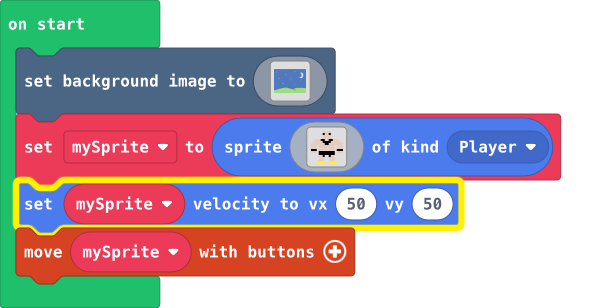
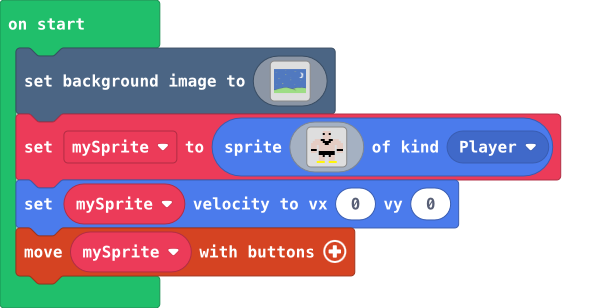
Update main.blocks, main.ts

Changed region(s): [[0.0, 0.5552, 0.7749, 0.789]]

diff --git a/main.ts b/main.ts
@@ -17,5 +17,5 @@ let mySprite = sprites.create(img`
     . . . . d d d . . d d d . . . . 
     . . . 5 5 5 5 . . 5 5 5 5 . . . 
     `, SpriteKind.Player)
-mySprite.setVelocity(50, 50)
+mySprite.setVelocity(0, 0)
 controller.moveSprite(mySprite)
